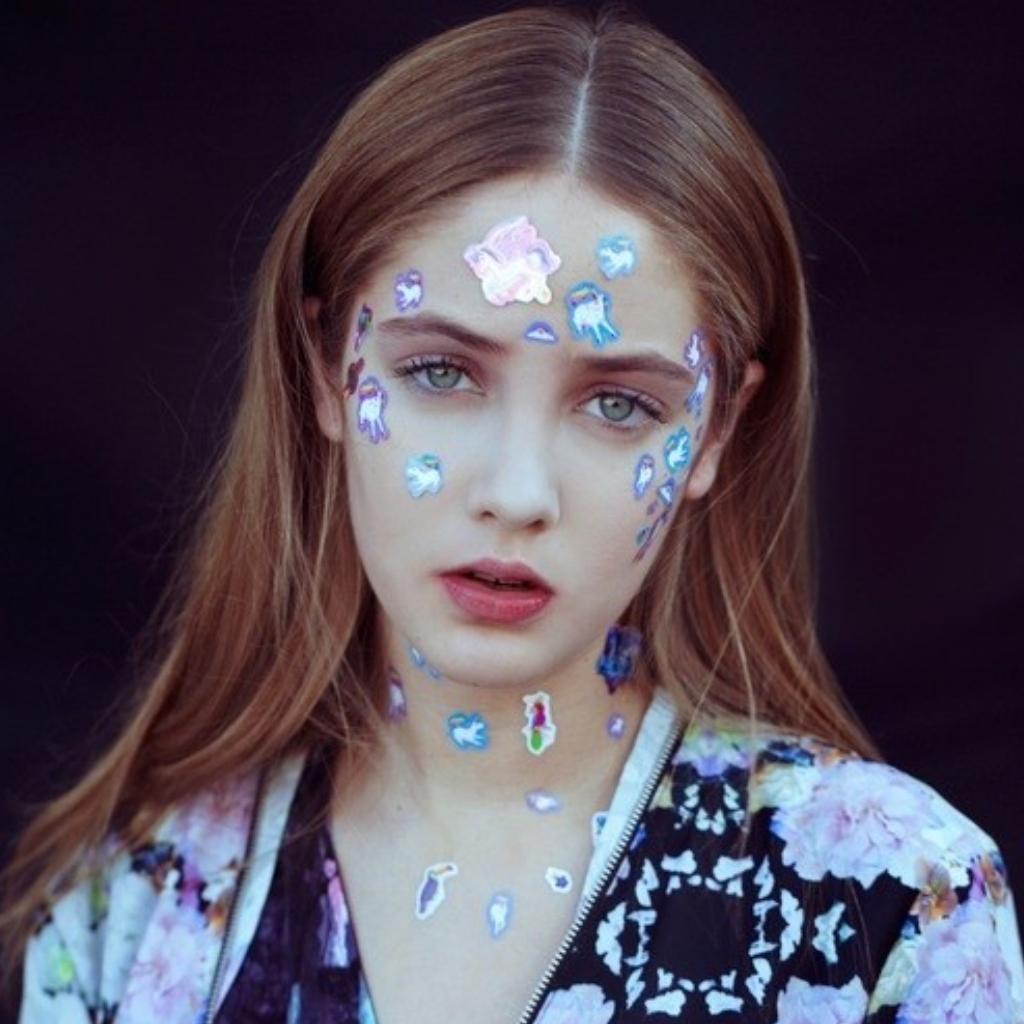
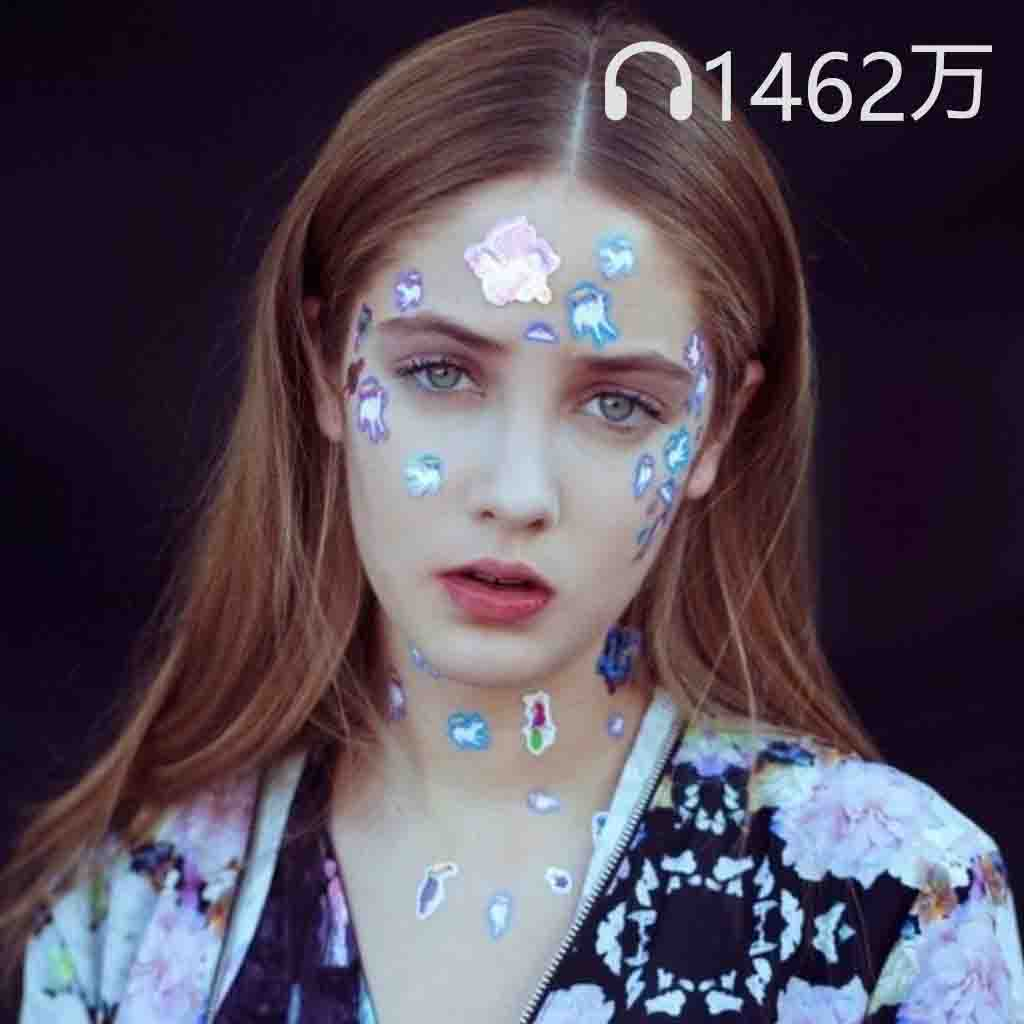
更改歌单封面

Changed region(s): [[0.5938, 0.0312, 0.9688, 0.125]]

diff --git a/src/index.html b/src/index.html
@@ -113,7 +113,7 @@
                             <div class="cover">
                                 <img src="./img/songlist/6.jpg" alt="封面">
                             </div>
-                            <p>【欧美男团】秒杀耳朵系列</p>
+                            <p>【高质量纯电音合集】珍藏系列</p>
                         </li>
                     </ol>
                 </section>
